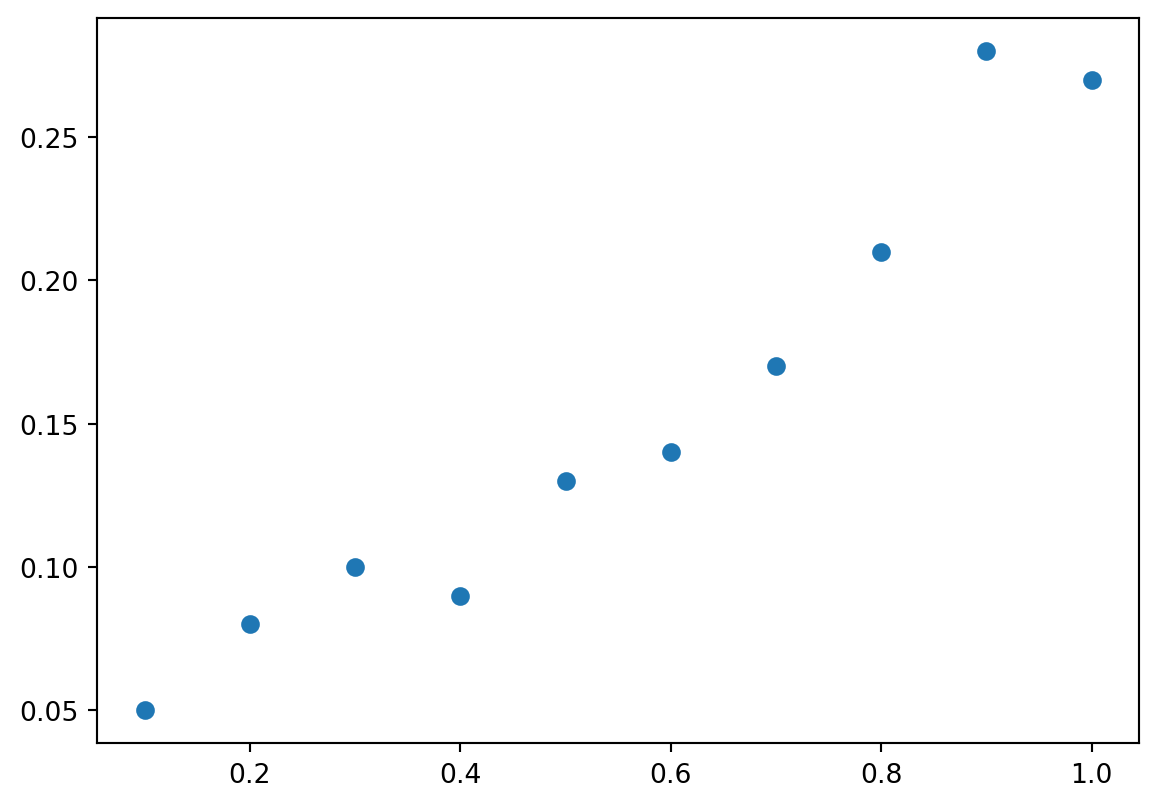
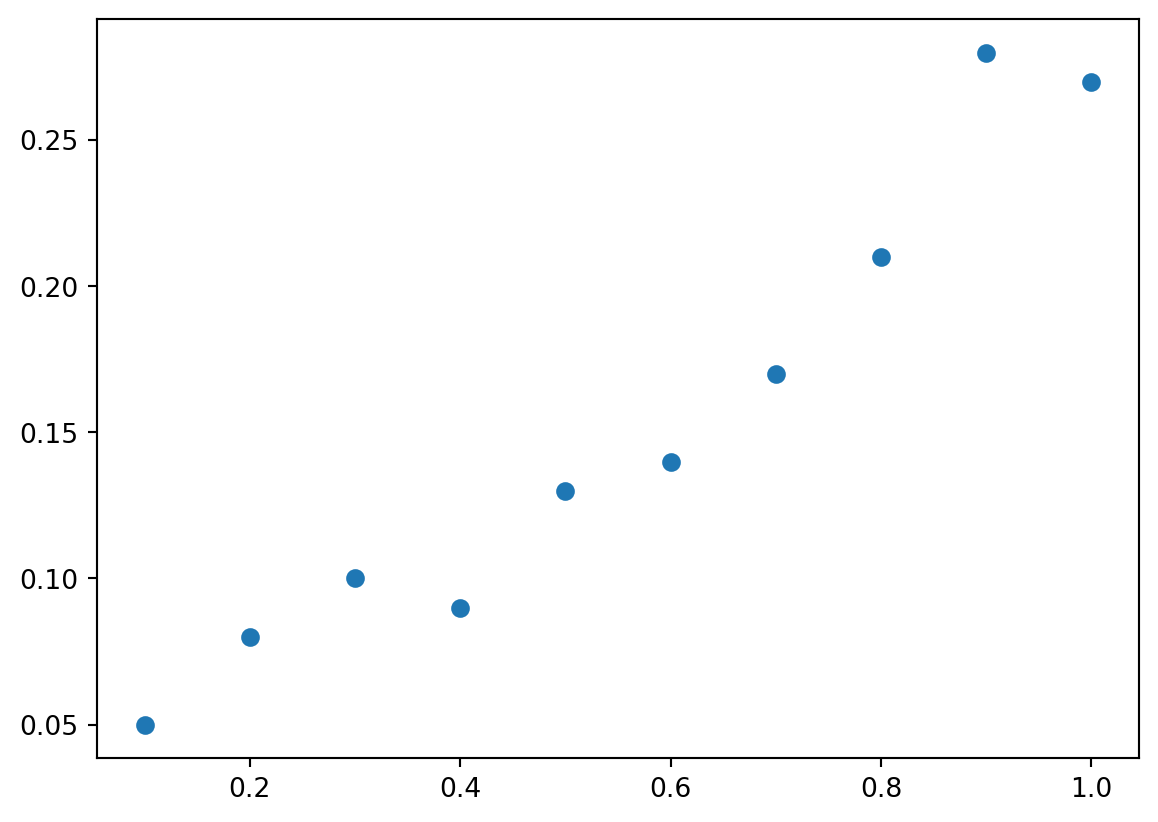
first python in Rstudio

diff --git a/onelayernn.html b/onelayernn.html
@@ -115,14 +115,11 @@ pre > code.sourceCode > span > a:first-child::before { text-decoration: underlin
 <span id="cb1-10"><a href="#cb1-10" aria-hidden="true" tabindex="-1"></a>             <span class="fl">0.17</span>,<span class="fl">0.21</span>,<span class="fl">0.28</span>,<span class="fl">0.27</span>]).reshape(<span class="op">-</span><span class="dv">1</span>,<span class="dv">1</span>)</span>
 <span id="cb1-11"><a href="#cb1-11" aria-hidden="true" tabindex="-1"></a>plt.scatter(X,y)</span></code><button title="Copy to Clipboard" class="code-copy-button"><i class="bi"></i></button></pre></div>
 <div class="cell-output cell-output-display" data-execution_count="1">
-<pre><code>&lt;matplotlib.collections.PathCollection at 0x7fc2c089a8e0&gt;</code></pre>
+<pre><code>&lt;matplotlib.collections.PathCollection at 0x11fc34b30&gt;</code></pre>
 </div>
 <div class="cell-output cell-output-display">
-<p><img src="onelayernn_files/figure-html/cell-2-output-2.png" width="579" height="404"></p>
+<p><img src="onelayernn_files/figure-html/cell-2-output-2.png" width="579" height="411"></p>
 </div>
-</div>
-<div class="cell" data-execution_count="2">
-<div class="sourceCode cell-code" id="cb3"><pre class="sourceCode python code-with-copy"><code class="sourceCode python"><span id="cb3-1"><a href="#cb3-1" aria-hidden="true" tabindex="-1"></a><span class="im">from</span> sklearn.linear_model <span class="im">import</span> LinearRegression</span></code><button title="Copy to Clipboard" class="code-copy-button"><i class="bi"></i></button></pre></div>
 </div>
 
 </main>

diff --git a/slr.py b/slr.py
@@ -1,6 +1,6 @@
 import matplotlib.pyplot as plt
 import numpy as np
-
+from sklearn.linear_model import LinearRegression
 X = np.array([0.1, 0.2, 0.3, 
               0.4, 0.5, 0.6, 
               0.7, 0.8, 0.9, 1]).reshape(-1,1)
@@ -9,3 +9,23 @@ y = np.array([0.05,0.08,0.1,
              0.09,0.13,0.14,
              0.17,0.21,0.28,0.27]).reshape(-1,1)
 plt.scatter(X,y)
+plt.show()
+
+
+slr = LinearRegression()
+slr.fit(X, y)
+predict_y = slr.predict(X)
+print('slope:',slr.coef_[0])
+print('Intercept: %.3f' % slr.intercept_)
+
+y_predict = slr.predict(X)
+# plot results
+plt.scatter(X, y, label='training points')
+plt.plot(X, y_predict, label='linear fit', linestyle='--')
+plt.show()
+
+mse = np.mean((y-y_predict)**2)
+print("MSE=",mse)
+
+from sklearn.metrics import mean_squared_error
+print('MSE train: %.6f' %mean_squared_error(y, predict_y))
